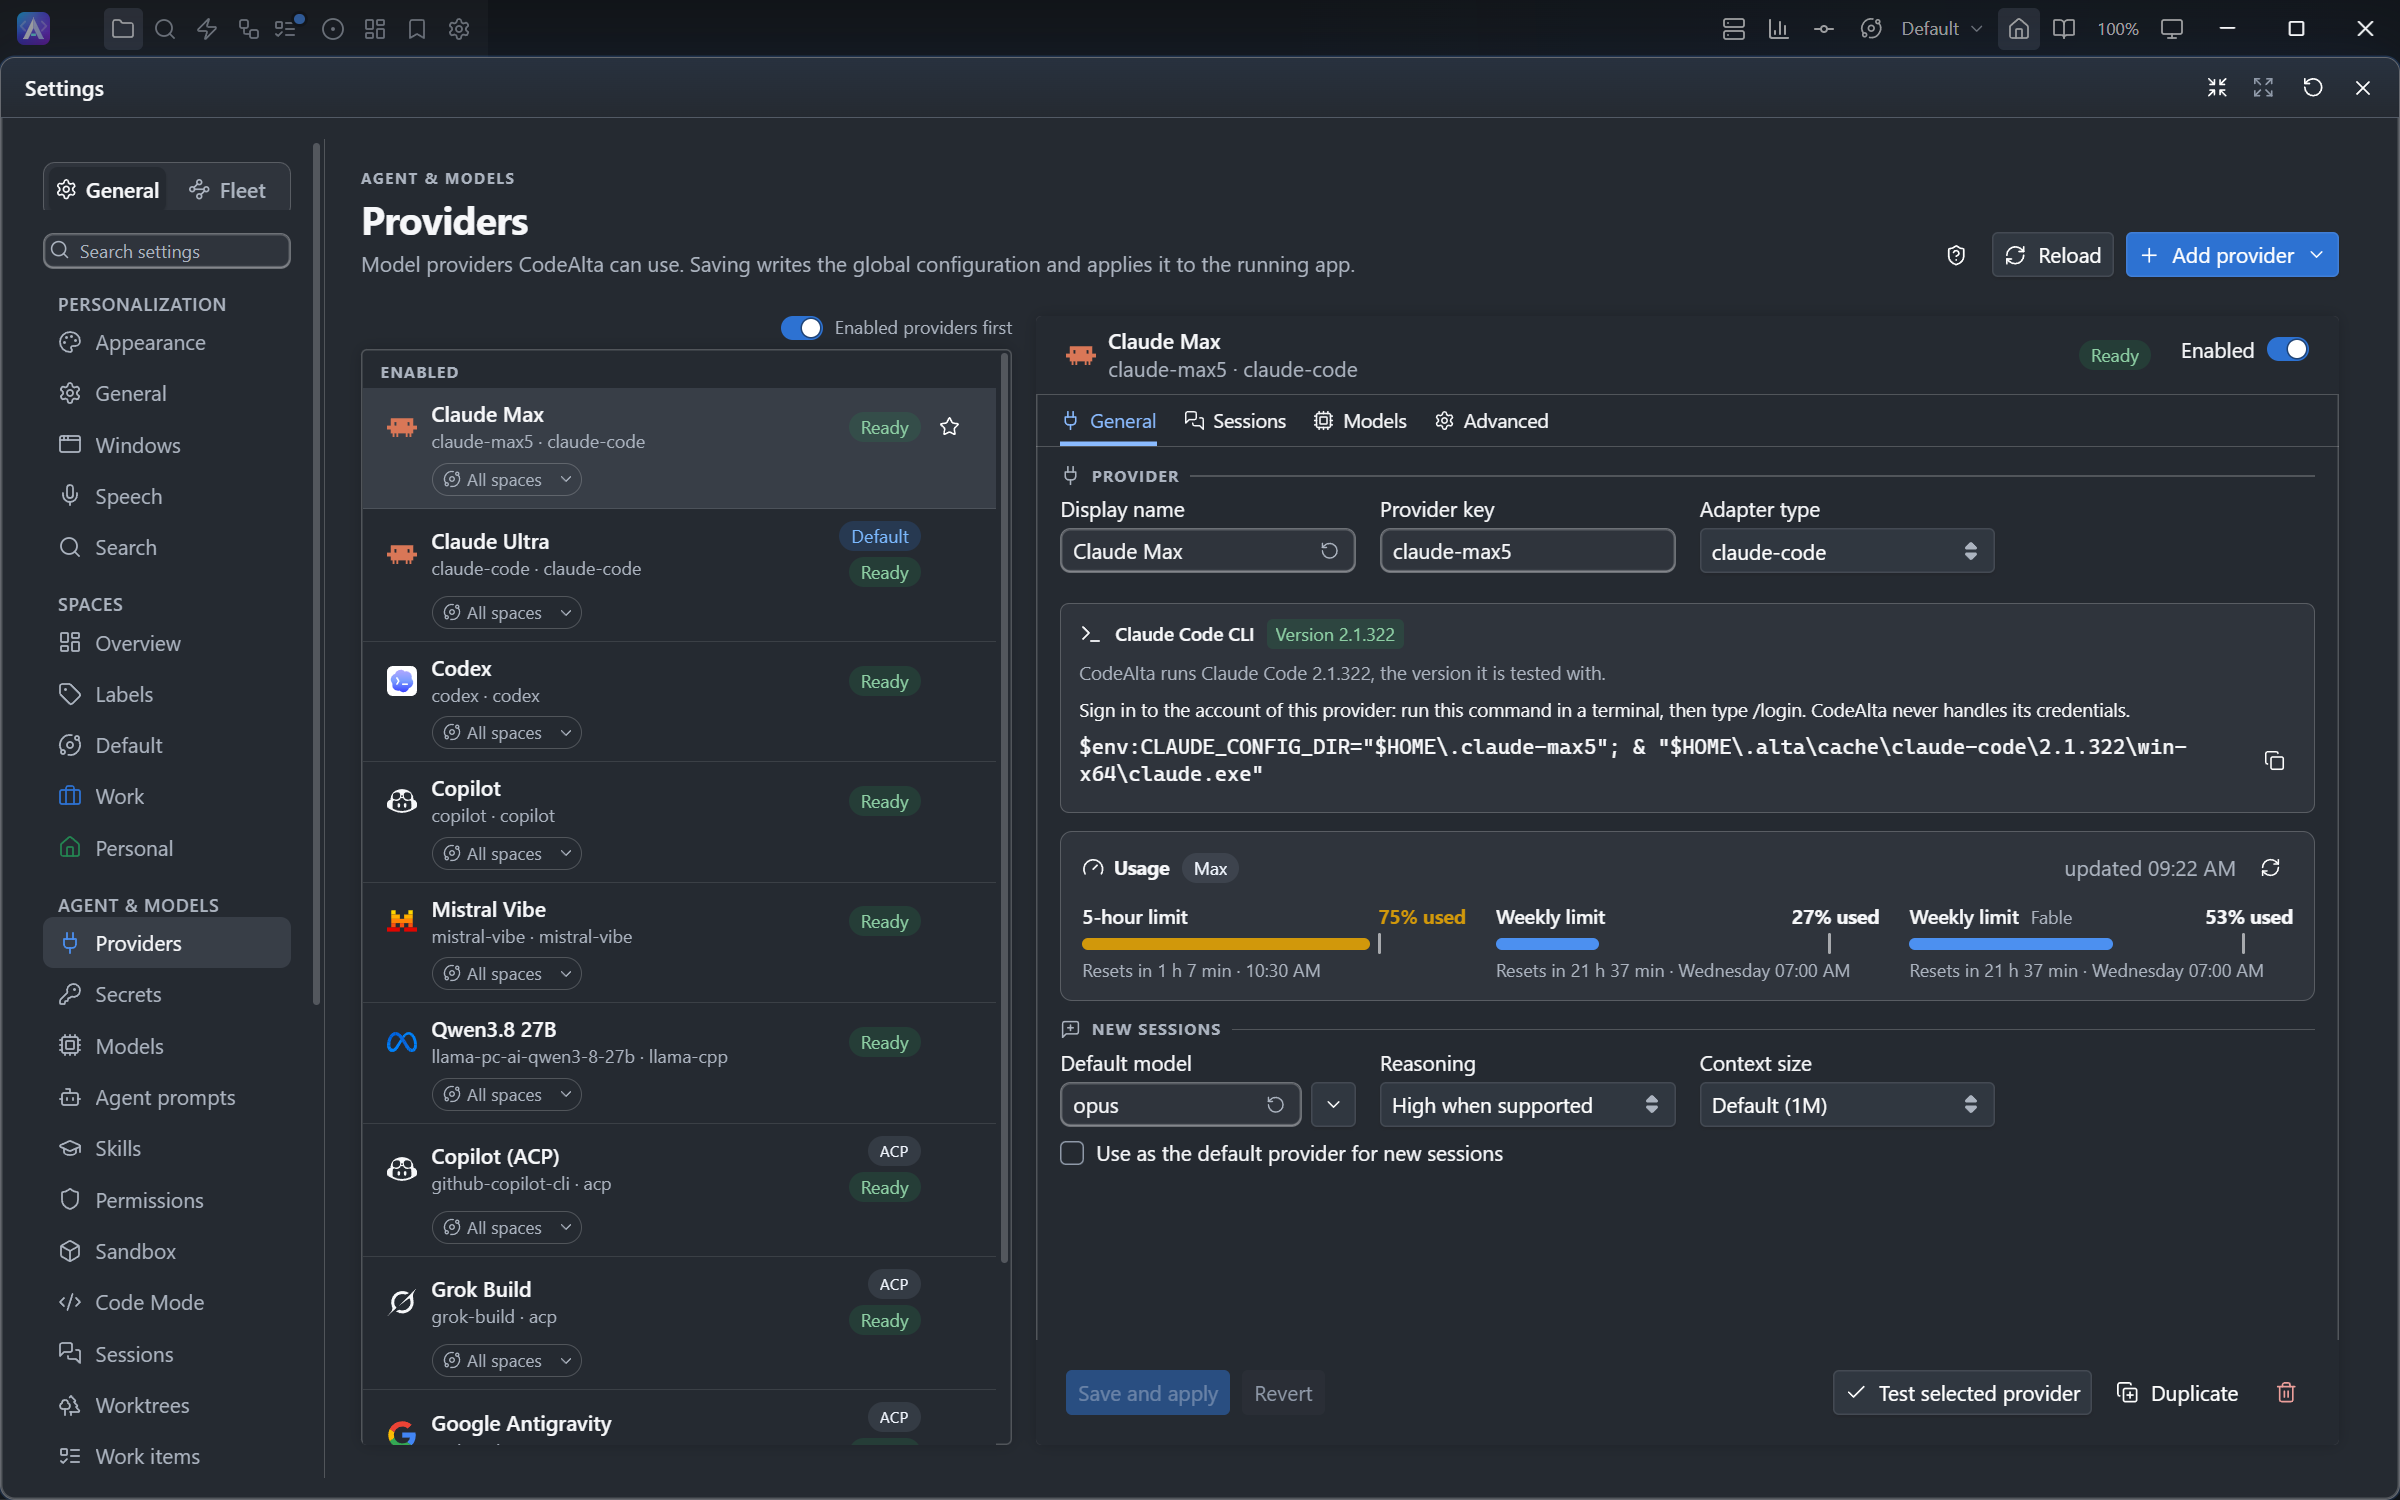
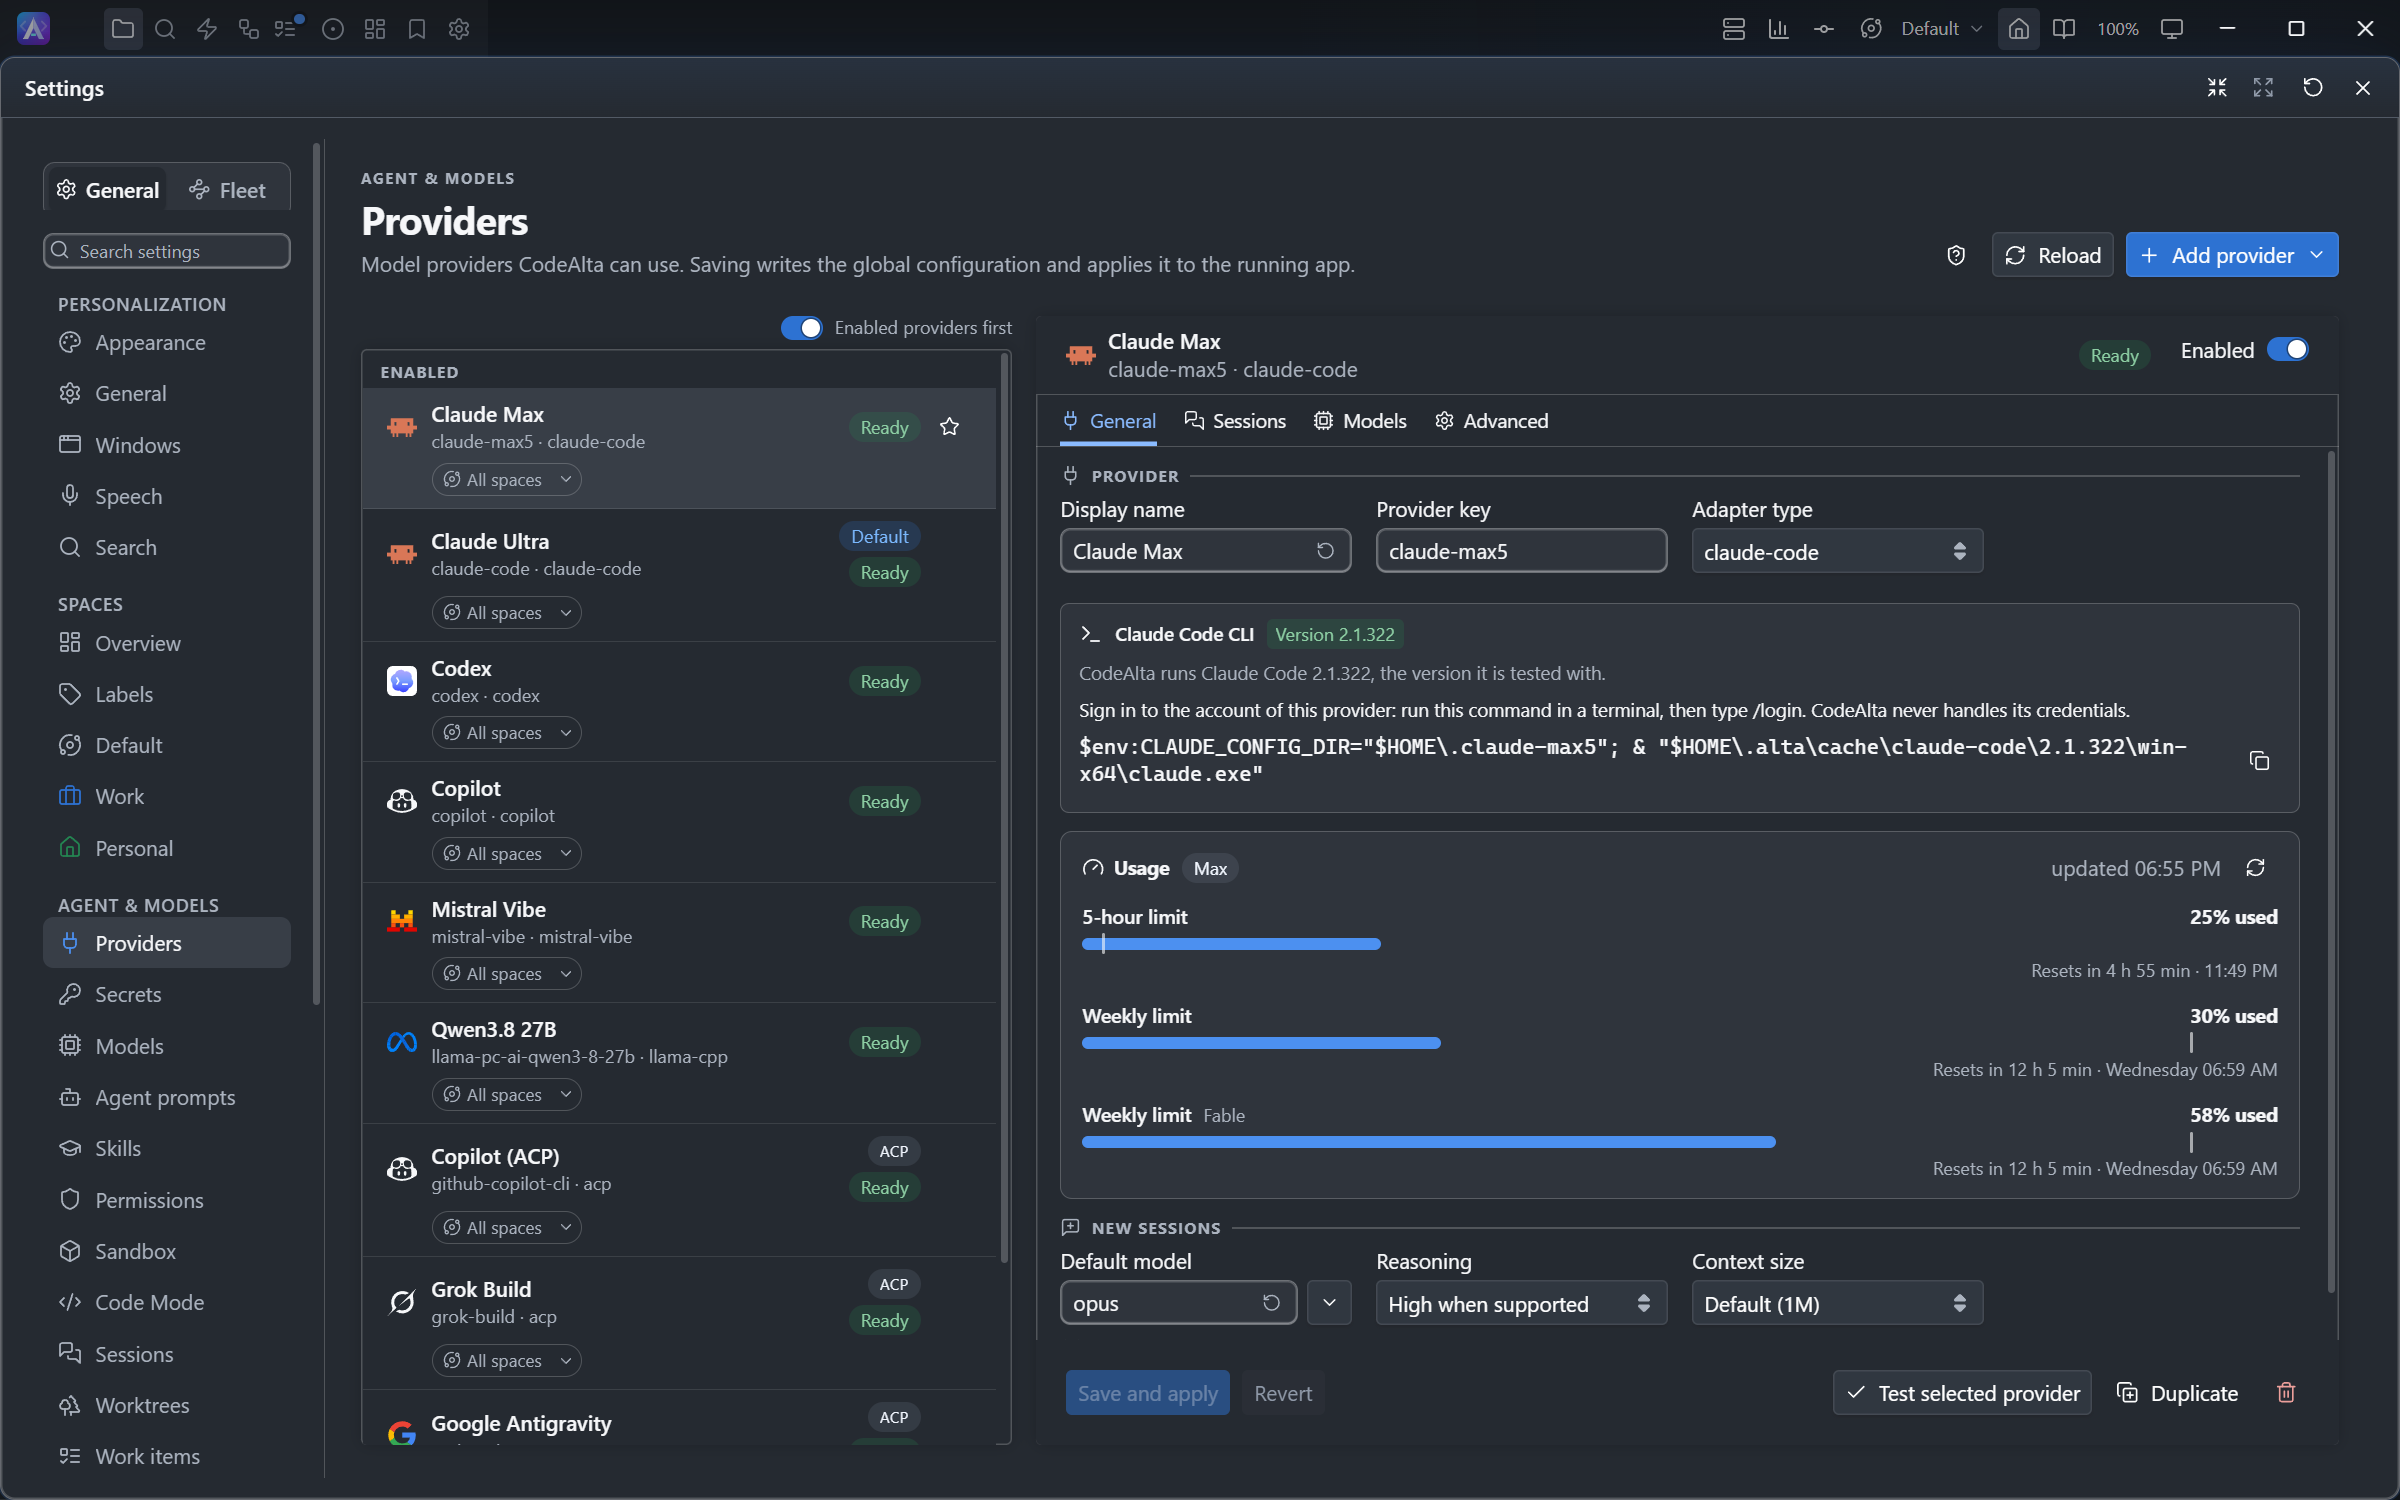
Enhance the usage of a provider with one limit per line
The limits of a subscription stood side by side in the form of a
provider, which read as packed. Each has its own line again, as in the
usage window of a session; a small window scrolls the tab for them. The
picture of the Providers page shows them that way.

diff --git a/src/CodeAlta/frontend/src/style.css b/src/CodeAlta/frontend/src/style.css
@@ -1441,11 +1441,6 @@ dialog.app-window-layer { position: fixed; inset: 0; width: 100vw; height: 100dv
 .provider-form-file { display: flex; flex-wrap: wrap; align-items: center; gap: 8px 14px; color: var(--muted); font-size: 12.5px; }
 .provider-form-note { margin: 0 0 8px; color: var(--muted); font-size: 12.5px; }
 .provider-form-note > svg { vertical-align: -2px; }
-/* The limits of a subscription stand side by side where the form has the room. */
-.provider-form-panel .subscription-limits { grid-template-columns: repeat(auto-fit, minmax(210px, 1fr)); gap: 12px 20px; }
-.provider-form-panel .subscription-limit-foot { justify-content: flex-start; }
-.provider-form-panel .subscription-limit-foot > span:empty { display: none; }
-.provider-form-panel .subscription-limit-foot > span:last-child { margin-left: 0; text-align: left; }
 /* The variables of the program of a provider: a row each, its value a text or a secret of this computer. */
 .provider-environment { display: grid; gap: 6px; min-width: 0; }
 .provider-environment-row { display: grid; grid-template-columns: minmax(120px, 34%) auto minmax(0, 1fr) auto auto; align-items: center; gap: 6px; min-width: 0; }
